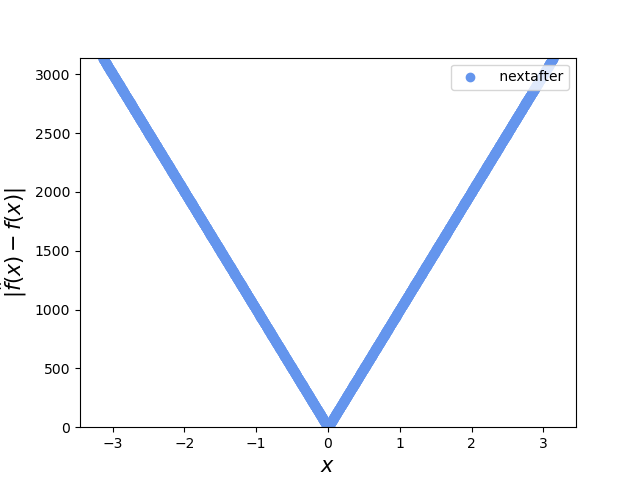
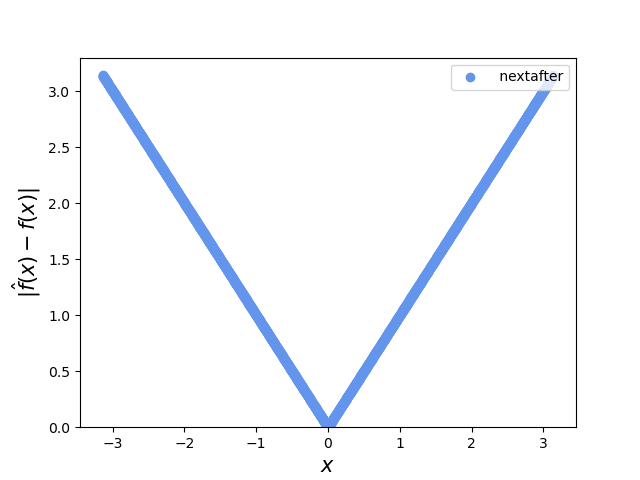
Corrected scale error on vertical axes for differene plots

diff --git a/figures/brownian.py b/figures/brownian.py
@@ -12,13 +12,14 @@ if (len(sys.argv) != 3):
 builtin = sys.argv[1]
 vendor = sys.argv[2]
 
-e1 = 1000.0*np.loadtxt(f"data/differences/{builtin}.txt", comments="#", delimiter="\n", unpack=False)
-e2 = 1000.0*np.loadtxt(f"data//differences/{vendor}.txt", comments="#", delimiter="\n", unpack=False)
-e1 = e1[~np.isnan(e1)]
-e2 = e2[~np.isnan(e2)]
-
-med_p1 = np.median(e1)
-med_p2 = np.median(e2)
+try:
+    e1 = np.loadtxt(f"data/differences/{builtin}.txt", comments="#", delimiter="\n", unpack=False,dtype='double')
+except:
+    sys.exit(f"data/differences/{builtin}.txt not found")
+try:
+    e2 = np.loadtxt(f"data//differences/{vendor}.txt", comments="#", delimiter="\n", unpack=False,dtype='double')
+except:
+    sys.exit(f"data/differences/{vendor}.txt not found")
 
 x = np.linspace(-np.pi,np.pi,len(e1))
 x1 = x[~np.isnan(e1)]
@@ -27,7 +28,7 @@ e1 = e1[~np.isnan(e1)]
 e2 = e2[~np.isnan(e2)]
 
 plt.scatter(x1,e1, color='cornflowerblue', label=f" {builtin}")
-plt.ylim([0,max(max(e1),1e-100)])
+plt.ylim([0,max(1.05*max(e1),1e-100)])
 plt.legend(loc='upper right')
 plt.xlabel('$x$',fontsize=15)
 plt.ylabel('$|\hat{f}(x)-f(x)|$',fontsize=15)
@@ -35,7 +36,7 @@ plt.savefig(f"images/differences/{builtin}.png")
 
 plt.figure()
 plt.scatter(x2,e2, color='orange', label=f" {vendor}")
-plt.ylim([0,max(max(e2),1e-100)])
+plt.ylim([0,max(1.05*max(e2),1e-100)])
 plt.legend(loc='upper right')
 plt.xlabel('$x$',fontsize=15)
 plt.ylabel('$|\hat{f}(x)-f(x)|$',fontsize=15)

diff --git a/figures/histogram.py b/figures/histogram.py
@@ -12,8 +12,14 @@ if (len(sys.argv) != 3):
 builtin = sys.argv[1]
 vendor = sys.argv[2]
 
-p1 = 1000.0*np.loadtxt(f"data/timings/{builtin}.txt", comments="#", delimiter="\n", unpack=False)
-p2 = 1000.0*np.loadtxt(f"data//timings/{vendor}.txt", comments="#", delimiter="\n", unpack=False)
+try:
+    p1 = 1000.0*np.loadtxt(f"data/timings/{builtin}.txt", comments="#", delimiter="\n", unpack=False,dtype='double')
+except:
+    sys.exit(f"data/timings/{builtin}.txt not found")
+try:
+    p2 = 1000.0*np.loadtxt(f"data//timings/{vendor}.txt", comments="#", delimiter="\n", unpack=False,dtype='double')
+except:
+    sys.exit(f"data/timings/{vendor}.txt not found")
 
 med_p1 = np.median(p1)
 med_p2 = np.median(p2)
